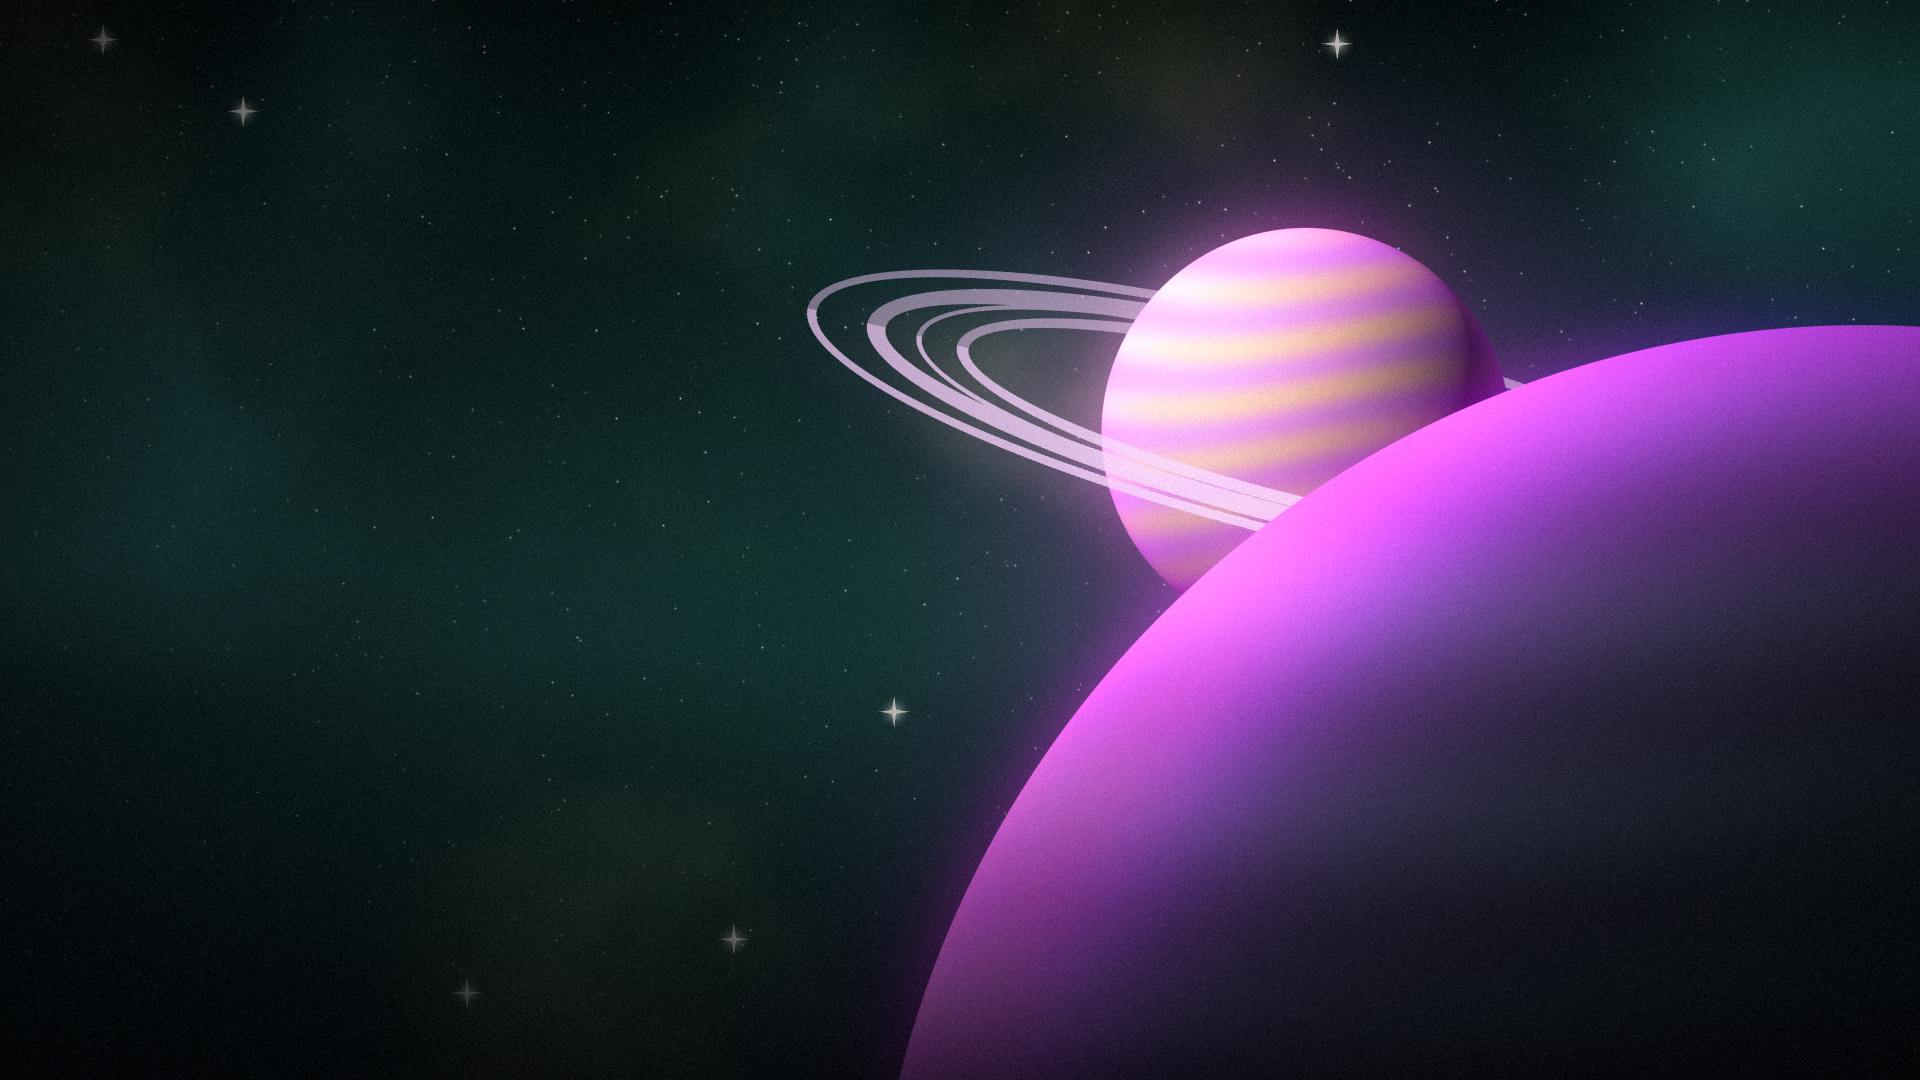
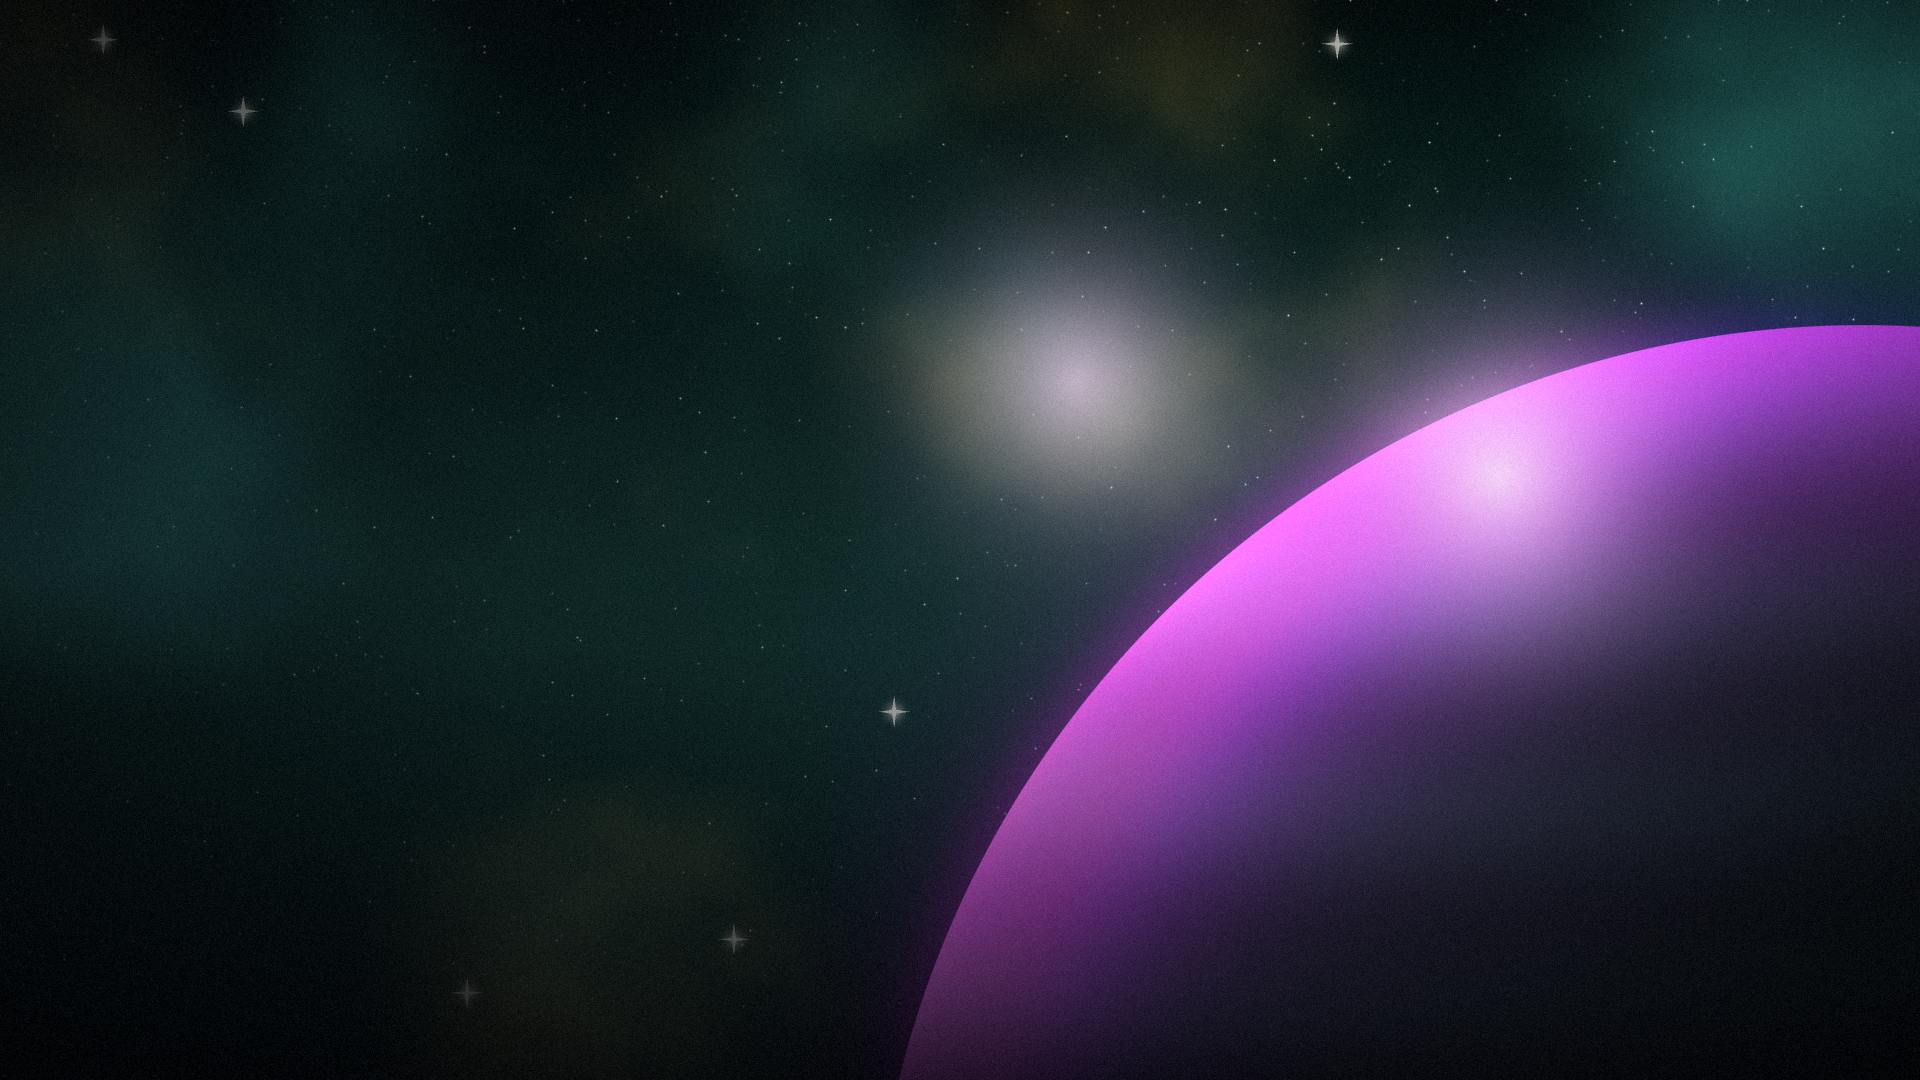
fix calendar and popular headings, tvOS home anchor, deep field art, refresh job
Calendar headline no longer repeats In cinemas; the popular day heading drops the second weekday; tvOS Home keeps the next row just peeking; Deep Field becomes a nebula scene; the refresh job recompresses PNGs and ends green when Actions cannot open the pull request.

Changed region(s): [[0.4062, 0.1222, 0.875, 0.8556], [0.4688, 0.8556, 0.5, 0.8861]]

diff --git a/iosApp/Acolyte/Downloads/CalendarView.swift b/iosApp/Acolyte/Downloads/CalendarView.swift
@@ -272,7 +272,7 @@ private struct EntryRow: View {
             .frame(width: 96, height: 54)
             .clipShape(RoundedRectangle(cornerRadius: Theme.Radius.poster / 2, style: .continuous))
             VStack(alignment: .leading, spacing: 2) {
-                Text(group.whenText + " · " + group.tagText)
+                Text(group.headline)
                     .font(.caption.weight(.medium))
                     .foregroundStyle(Theme.accentText)
                     .lineLimit(1)
@@ -359,7 +359,7 @@ private struct CalendarEntrySheet: View {
                         }
                     }
                     .clipShape(RoundedRectangle(cornerRadius: Theme.Radius.card, style: .continuous))
-                Text(group.whenText + " · " + group.tagText)
+                Text(group.headline)
                     .font(.subheadline.weight(.medium))
                     .foregroundStyle(Theme.accentText)
                 Text(group.title)

diff --git a/androidApp/src/androidMain/kotlin/ch/orellbuehler/acolyte/ui/discover/PopularScreen.kt b/androidApp/src/androidMain/kotlin/ch/orellbuehler/acolyte/ui/discover/PopularScreen.kt
@@ -206,7 +206,7 @@ private fun DayView(
             1 -> stringResource(R.string.discover_day_tomorrow)
             else -> date?.dayOfWeek?.getDisplayName(TextStyle.FULL, Locale.getDefault()) ?: day.day
         }
-    val small = date?.let { shortDate(it) }.orEmpty()
+    val small = date?.let { if (day.offset in -1..1) shortDate(it) else monthDay(it) }.orEmpty()
     CardShelf(title = "$word · $small") {
         items(day.entries, key = { day.day + it.card.key }) { entry -> TitleWideCard(entry.card, events, subtitle = whatText(entry)) }
     }
@@ -251,6 +251,11 @@ private fun PopularRowView(
             }
         }
     }
+}
+
+fun monthDay(date: LocalDate): String {
+    val locale = Locale.getDefault()
+    return date.format(DateTimeFormatter.ofPattern(DateFormat.getBestDateTimePattern(locale, "MMMd"), locale))
 }
 
 fun shortDate(date: LocalDate): String {

diff --git a/iosApp/Acolyte/Discover/DiscoverText.swift b/iosApp/Acolyte/Discover/DiscoverText.swift
@@ -238,6 +238,18 @@ enum DiscoverText {
         return date.formatted(style)
     }
 
+    static func monthDay(_ day: String) -> String {
+        guard let date = Format.date(iso: day.count == 10 ? day + "T00:00:00Z" : day) else { return day }
+        var style = Date.FormatStyle().month(.abbreviated).day()
+        style.timeZone = TimeZone(identifier: "UTC") ?? .current
+        return date.formatted(style)
+    }
+
+    static func dayTitle(word: String, offset: Int, day: String) -> String {
+        let named = offset >= -1 && offset <= 1
+        return word + " · " + (named ? shortDate(day) : monthDay(day))
+    }
+
     static func weekday(_ day: String) -> String {
         guard let date = Format.date(iso: day + "T00:00:00Z") else { return day }
         var style = Date.FormatStyle().weekday(.wide)

diff --git a/androidTvApp/src/androidMain/kotlin/ch/orellbuehler/acolyte/tv/popular/TvPopularText.kt b/androidTvApp/src/androidMain/kotlin/ch/orellbuehler/acolyte/tv/popular/TvPopularText.kt
@@ -6,6 +6,7 @@ import ch.orellbuehler.acolyte.feature.discover.RailDayEntry
 import ch.orellbuehler.acolyte.feature.discover.RailEntry
 import ch.orellbuehler.acolyte.feature.discover.WhatKind
 import ch.orellbuehler.acolyte.tv.R
+import ch.orellbuehler.acolyte.tv.components.tvMonthDay
 import ch.orellbuehler.acolyte.tv.components.tvShortDay
 import ch.orellbuehler.acolyte.tv.components.tvWeekday
 
@@ -18,7 +19,7 @@ fun tvDayTitle(day: RailDayEntry): String {
             1 -> stringResource(R.string.tv_discover_day_tomorrow)
             else -> tvWeekday(day.day)
         }
-    return "$word · ${tvShortDay(day.day)}"
+    return "$word · ${if (day.offset in -1..1) tvShortDay(day.day) else tvMonthDay(day.day)}"
 }
 
 @Composable

diff --git a/iosApp/Acolyte/Discover/PopularView.swift b/iosApp/Acolyte/Discover/PopularView.swift
@@ -66,7 +66,7 @@ struct PopularView: View {
                             .padding(.horizontal, Theme.Spacing.screen)
                             .accessibilityAddTraits(.isHeader)
                         ForEach(store.info.days) { day in
-                            CardShelf(title: "\(dayWord(day)) · \(DiscoverText.shortDate(day.day))") {
+                            CardShelf(title: DiscoverText.dayTitle(word: dayWord(day), offset: day.offset, day: day.day)) {
                                 ForEach(day.entries) { entry in
                                     TitleWideCard(card: entry.card, subtitle: what(entry))
                                 }

diff --git a/iosApp/AcolyteTV/Browse/TVPopularView.swift b/iosApp/AcolyteTV/Browse/TVPopularView.swift
@@ -30,7 +30,7 @@ struct TVPopularView: View {
                             .foregroundStyle(Theme.text)
                             .accessibilityAddTraits(.isHeader)
                         ForEach(info.days) { day in
-                            TVShelf(title: "\(dayWord(day)) · \(DiscoverText.shortDate(day.day))") {
+                            TVShelf(title: DiscoverText.dayTitle(word: dayWord(day), offset: day.offset, day: day.day)) {
                                 ForEach(day.entries) { entry in
                                     TVDiscoverCard(
                                         card: entry.card,

diff --git a/iosApp/AcolyteTV/Home/TVHomeView.swift b/iosApp/AcolyteTV/Home/TVHomeView.swift
@@ -52,7 +52,7 @@ struct TVHomeView: View {
                                 }
                             }
                         }
-                        .containerRelativeFrame(.vertical, alignment: .bottomLeading) { height, _ in height - 300 }
+                        .containerRelativeFrame(.vertical, alignment: .bottomLeading) { height, _ in height - 170 }
                         ForEach(rows, id: \.row.id) { entry in
                             TVCardRow(row: entry.row, title: entry.title, seeAll: seeAll(entry.row), focus: $focus)
                         }

diff --git a/iosApp/AcolyteTV/TVCalendarView.swift b/iosApp/AcolyteTV/TVCalendarView.swift
@@ -103,7 +103,7 @@ struct TVCalendarView: View {
             ForEach(day.groups) { group in
                 TVBackdropCard(
                     title: group.title,
-                    subtitle: group.whenText + " · " + group.tagText,
+                    subtitle: group.headline,
                     detail: group.captionLines.joined(separator: " · "),
                     chip: TVChipInfo(text: group.dot.label, tone: group.dot.tone),
                     image: group.art,

diff --git a/iosApp/Acolyte/Downloads/DownloadsText.swift b/iosApp/Acolyte/Downloads/DownloadsText.swift
@@ -950,6 +950,11 @@ extension CalendarGroupInfo {
         return last
     }
 
+    var headline: String {
+        if whenKind == .inTheaters && tag == .inCinemas { return tagText }
+        return whenText + " · " + tagText
+    }
+
     var whenText: String {
         switch whenKind {
         case .time: DownloadsText.time(minutes: minutes)

diff --git a/androidTvApp/src/androidMain/kotlin/ch/orellbuehler/acolyte/tv/components/TvBrowseText.kt b/androidTvApp/src/androidMain/kotlin/ch/orellbuehler/acolyte/tv/components/TvBrowseText.kt
@@ -86,6 +86,8 @@ fun tvBrowseSectionTitle(
 
 fun tvShortDay(day: String): String = dayFormat(day, "EEEMMMd")
 
+fun tvMonthDay(day: String): String = dayFormat(day, "MMMd")
+
 fun tvWeekday(day: String): String = dayFormat(day, "EEEE")
 
 private fun dayFormat(

diff --git a/scripts/screenshots/make-art.py b/scripts/screenshots/make-art.py
@@ -71,7 +71,7 @@ SPEC = {
     "northern-lines": A("rail", "", (), (215, 35, 190), "oswald"),
     "cardigan-club": A("blocks", "", (), (20, 175, 60), "abril"),
     "the-long-thaw": A("ridges", "", ("night", "moon", "alpine", "pines"), (205, 190, 270, 0.9, 1.0), "josefin"),
-    "deep-field": A("space", "ringed", (), (175, 290, 40), "orbitron"),
+    "deep-field": A("space", "nebula", (), (175, 290, 40), "orbitron"),
     "harrow-and-finch": A("noir", "", (), (30, 38, 20, 0.8, 0.9), "anton"),
     "wildlight": A("ridges", "", ("sun", "alpine", "lake"), (205, 22, 50), "lora"),
     "crownless": A("ridges", "", ("night", "castle", "moon", "pines"), (350, 40, 20, 1.0, 0.9), "cinzel"),

diff --git a/README.md b/README.md
@@ -155,7 +155,7 @@ The `Store Screenshots` workflow (Actions tab, Run workflow) captures the App St
 | `store/screenshots/androidtv/<locale>/NN-name.png` | 1920 x 1080, Google Play Android TV screenshots from an Android TV emulator (`tv_1080p`, API 34). `scripts/screenshots/androidtv.sh` reaches the tab screens with the remote, waits until two frames two seconds apart are identical, presses DPAD_DOWN to put the focus on a card, and first walks the whole app once: the job fails when the app crashes or hangs, so it doubles as the TV app's smoke test |
 | `store/screenshots/tvos/<locale>/NN-name.png` | 3840 x 2160, the App Store Apple TV slot (`scripts/screenshots/tvos.sh` waits until the demo server is quiet, so pictures are loaded, then captures) |
 
-Locales are `en-US` and `de-DE` (the app runs as `de-CH` for the German set). Tick `commit` when running the workflow to put the new PNGs on the branch `store-screenshots/refresh` and open a pull request; a plain run only uploads the artifacts. The `commit` job also redraws the promo images (`python3 scripts/store/make-promo.py`, see Icon and store graphics), so the pull request carries both.
+Locales are `en-US` and `de-DE` (the app runs as `de-CH` for the German set). Tick `commit` when running the workflow to put the new PNGs (losslessly recompressed) on the branch `store-screenshots/refresh`; Actions may not be allowed to open pull requests in this repository, in which case the job ends green with a notice and you open it with `gh pr create --head store-screenshots/refresh`. A plain run only uploads the artifacts. The `commit` job also redraws the promo images (`python3 scripts/store/make-promo.py`, see Icon and store graphics), so the pull request carries both.
 
 Locally, `python3 scripts/screenshots/demo-server.py` serves the demo data on port 6263 (sign in with any user and password), and `ACOLYTE_DEMO_URL=http://127.0.0.1:6263 ./gradlew shared:testDebugUnitTest --tests '*DemoServerTest*'` checks that the shared presenters accept it, with strict decoding. To add a screen: add a line to `scripts/screenshots/screens.sh` (`SCREENS` for the phones, `TV_SCREENS` for the TV apps; a section name or `title:<kind>:<tmdb id>`), serve what the screen calls in `demo-server.py` (the log lists every call it did not know), and look at the result in the next workflow run. New artwork: add the title to `catalog.py` and run `scripts/screenshots/make-art.py` (needs Pillow).
 
